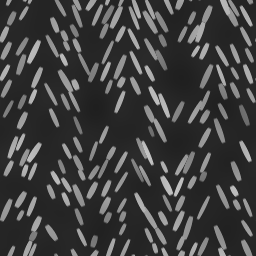
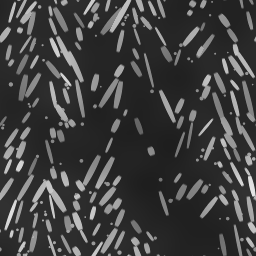
cabin777 py w4: raters A 6.5 / B 7.0 -> final fixes: fabric with soft diagonal drifts, mixed stroke sizes + dots, lavender-grey ground, wings = back tone; square-shouldered shell top + wings pulled in; shallow mesh window with stitched border + full-width tray lip; taller open cubbies (upper 1.5x lo
Shared-file edits: SEATMAT pyFabric/pyWing (src/09_seats.js), synth_py_back in test/make_swatches.py + tex/tex_py_back.png.
Triangles: py2 10592 -> 11802, py4 20228 -> 23226 over the session.

Claude-Session: https://claude.ai/code/session_01BdVL6hZ8sese3DcwdvQ7TK

diff --git a/cabin777/src/09b_py.js b/cabin777/src/09b_py.js
@@ -30,14 +30,14 @@ function pySeat(B, x0, lod, opts = {}) {
   // PY w2: the top is a large-radius arch that ends level with the headrest (0.925 vs 0.91), not a square board 6 cm
   // above it (py_37302 / 37303, san_13, alv_02; raters A + B) [D]
   const ds = [[-0.04, 0.05, 0.525], [0.12, 0.06, 0.525], [0.34, 0.07, 0.525], [0.5, 0.084, 0.525], [0.68, 0.09, 0.525], [0.78, 0.085, 0.522],
-    [0.84, 0.08, 0.515], [0.88, 0.075, 0.50], [0.905, 0.066, 0.47], [0.925, 0.05, 0.41], [0.935, 0.03, 0.32]];   // w3: covers the wings from behind
+    [0.84, 0.08, 0.52], [0.88, 0.075, 0.515], [0.905, 0.068, 0.505], [0.925, 0.055, 0.475], [0.94, 0.035, 0.41], [0.948, 0.015, 0.30]];   // w3/w4: square-shouldered so the wings never show from behind
   loftAt(B, ds.map(([y, d, w]) => SEC(y, w, d, zr(y) - d / 2 + 0.01, y > 0.85 ? d / 2 - 0.002 : 0.026)), BH, SEATMAT.pyShell, lod ? 2 : 3);
   // 6-way headrest with wings
   loftAt(B, [SEC(0.67, 0.42, 0.085, -0.008, 0.036), SEC(0.71, 0.39, 0.092, -0.012, 0.04), SEC(0.85, 0.39, 0.092, -0.012, 0.04), SEC(0.895, 0.37, 0.075, -0.006, 0.032), SEC(0.91, 0.33, 0.05, -0.002, 0.02)], BH, F, lod ? 3 : 4);
   for (const s of [-1, 1]) {
     // soft round pillow bolsters either side of the flap, ~0.10 wide x 0.25 tall with domed ends, bulging ~3.5 cm
     // forward of the flap (py_37301 / 37305)
-    const WX = M4.mul(BH, M4.trs(s * 0.195, 0, -0.045, -s * 18 * DEG));
+    const WX = M4.mul(BH, M4.trs(s * 0.182, 0, -0.045, -s * 14 * DEG));   // w4: pulled in (rater B: poked past the shell)
     loftAt(B, [SEC(0.66, 0.05, 0.05, 0, 0.024), SEC(0.69, 0.085, 0.095, 0, 0.042), SEC(0.72, 0.10, 0.11, 0, 0.05), SEC(0.87, 0.10, 0.11, 0, 0.05),
       SEC(0.90, 0.085, 0.095, 0, 0.042), SEC(0.92, 0.05, 0.05, 0, 0.024)], WX, SEATMAT.pyWing, lod ? 2 : 3);
   }
@@ -71,25 +71,26 @@ function pySeat(B, x0, lod, opts = {}) {
     // literature pocket low on the shell, just above the footrest (alv_05, san_10, san_05): rigid grey upper tray lip
     // standing ~4 cm proud, a flat grey panel below it with a black mesh window, slightly narrower at the bottom
     // (w3: the w2 5 cm hood + deep basket was too bulky, rater B) [D]
-    B.add(gRBox(0.40, 0.03, 0.045, 0.012, 1), on(0.235, 0.022), SEATMAT.pyShell);
+    B.add(gRBox(0.44, 0.045, 0.05, 0.014, 1), on(0.232, 0.024), SEATMAT.pyShell);
     B.add(gRBox(0.36, 0.17, 0.016, 0.012, 1), on(0.135, 0.01), SEATMAT.pyShell);
-    loftAt(B, [SEC(0.07, 0.27, 0.012, 0.018, 0.005), SEC(0.14, 0.30, 0.018, 0.021, 0.006), SEC(0.20, 0.32, 0.018, 0.021, 0.006)],
-      M4.mul(BH, M4.trs(0, 0, zr(0.13))), { c: '#16181b', r: 0.9, l: LAYER.grille }, 2);
+    B.add(gBox(0.30, 0.065, 0.003), on(0.12, 0.019), { c: '#16181b', r: 0.9, l: LAYER.grille });           // w4: shallow mesh window
+    for (const [sx, sy, w_, h_] of [[0, 0.156, 0.32, 0.002], [0, 0.084, 0.32, 0.002], [-0.16, 0.12, 0.002, 0.074], [0.16, 0.12, 0.002, 0.074]])
+      B.add(gBox(w_, h_, 0.002), on(sy, 0.0185, sx), { c: '#9a9ca0', r: 0.6 });                                  // stitched border
     B.add(gBox(0.36, 0.008, 0.006), on(0.216, 0.036), SEATMAT.black);                               // pocket mouth shadow
   }
   if (!opts.noScreen) {
     // coat hook: horizontal silver bullet high on the shell side + small round grey button below it (san_24)
-    B.add(gCyl(0.012, 0.016, 0.07, 10), M4.mul(on(0.80, 0.03, 0.20), M4.trs(0, 0, 0, 0, Math.PI / 2)), { c: '#c9ccd0', r: 0.25, m: 0.9, l: LAYER.brushed });
-    B.add(gCyl(0.009, 0.009, 0.006, 10), M4.mul(on(0.74, 0.012, 0.20), M4.trs(0, 0, 0, 0, Math.PI / 2)), { c: '#c7c9cc', r: 0.4 });
+    B.add(gCyl(0.015, 0.017, 0.05, 10), M4.mul(on(0.80, 0.025, 0.17), M4.trs(0, 0, 0, 0, Math.PI / 2)), { c: '#c9ccd0', r: 0.25, m: 0.9, l: LAYER.brushed });
+    B.add(gCyl(0.009, 0.009, 0.006, 10), M4.mul(on(0.74, 0.012, 0.17), M4.trs(0, 0, 0, 0, Math.PI / 2)), { c: '#c7c9cc', r: 0.4 });
     // gooseneck reading light: leaves the shell side at headrest height, arcs down + forward to a brushed-aluminium
     // head with a black lens at shoulder height; one per seat, on the console side (py_37305 / 37301, san_14)
     const sd = x0 > 0 ? -1 : 1, P = (x, y, z) => M4.point(BH, [sd * x, y, z]);
-    B.add(gCyl(0.016, 0.016, 0.03, 10), M4.mul(BH, M4.trs(sd * 0.265, 0.80, zr(0.80) - 0.02, 0, 0, Math.PI / 2)), SEATMAT.frame);
+    B.add(gCyl(0.016, 0.016, 0.03, 10), M4.mul(BH, M4.trs(sd * 0.25, 0.80, zr(0.80) - 0.02, 0, 0, Math.PI / 2)), SEATMAT.frame);
     B.add(gTube([P(0.262, 0.80, zr(0.80) - 0.02), P(0.262, 0.80, 0.0), P(0.265, 0.74, -0.10), P(0.24, 0.62, -0.16)], 0.0095, 8), null, SEATMAT.black);
-    const hd = M4.mul(BH, M4.trs(sd * 0.238, 0.585, -0.177, 0, 26 * DEG));
+    const hd = M4.mul(BH, M4.trs(sd * 0.238, 0.583, -0.204, 0, 50 * DEG));   // w4: head points forward-down ~45 deg (py_37305)
     B.add(gCyl(0.019, 0.019, 0.11, 12), hd,   // head ~38 x 115 mm (alv_17) [D]
     { c: '#c9ccd0', r: 0.25, m: 0.9, l: LAYER.brushed });
-    B.add(gCyl(0.006, 0.006, 0.002, 10), M4.mul(hd, M4.trs(0, -0.0555, 0)), SEATMAT.black);
+    B.add(gCyl(0.007, 0.007, 0.002, 10), M4.mul(hd, M4.trs(0, -0.025, 0.0192, 0, Math.PI / 2)), SEATMAT.black);   // lens on the side (py_37305)
   }
   // PY w2: ONE fold-down footrest for the passenger behind (alv_05 / alv_06, san_10): two ribbed dark pads (~0.13 m) on a
   // common axle with silver end caps + centre hub, hung from the seat pan on one silver arm just off centre (w3; alv_06) [D]
@@ -140,13 +141,13 @@ function pyUnit(n, lod = false, opts = {}) {
         // front face (alv_08 / alv_09, py_37306): two open moulded cubbies (upper larger) with a royal-blue triangle in
         // the corner, a black panel with two universal AC + USB sockets, then a lower block with the red life-vest tab
         // each cubby: a grey front plate standing ~2.5 cm proud over the lower 3/4, dark opening only above it
-        for (const [y, h] of [[0.50, 0.10], [0.37, 0.08]]) {
-          B.add(gBox(w - 0.03, 0.02, 0.004), M4.trs(xa, y + h / 2 - 0.012, -0.543), SEATMAT.hole);
-          B.add(gRBox(w - 0.012, h * 0.74, 0.028, 0.007, 1), M4.trs(xa, y - h * 0.13, -0.554), SEATMAT.pyArm);
+        for (const [y, h] of [[0.50, 0.12], [0.36, 0.075]]) {     // w4: upper ~1.5x the lower (alv_09)
+          B.add(gBox(w - 0.026, 0.016, 0.004), M4.trs(xa, y + h / 2 - 0.012, -0.543), { c: '#2a2c30', r: 0.8 });
+          B.add(gRBox(w - 0.02, h * 0.74, 0.028, 0.007, 1), M4.trs(xa, y - h * 0.13, -0.554), SEATMAT.pyArm);
           // royal-blue right-angled triangle: top-left corner on the upper cubby, top-right on the lower (alv_09) [V]
           const up = y > 0.45;
-          const L = 0.028, sx = up ? 1 : -1;   // legs along the plate's top edge and outer side (top-left / top-right seen from the front)
-          B.add(gExtrude([[0, 0], [-sx * L, 0], [0, -L]], 0.002), M4.trs(xa + sx * (w / 2 - 0.009), y + h * 0.24 - 0.008, -0.5695), { c: '#2f47a8', r: 0.6 });
+          const L = 0.026, sx = up ? 1 : -1;   // legs along the plate's top edge and outer side (top-left / top-right seen from the front)
+          B.add(gExtrude([[0, 0], [-sx * L, 0], [0, -L]], 0.002), M4.trs(xa + sx * (w / 2 - 0.013), y + h * 0.24 - 0.008, -0.5695), { c: '#2f47a8', r: 0.6 });
         }
         for (const s of [-1, 1]) {
           B.add(gRBox(0.037, 0.045, 0.004, 0.003, 1), M4.trs(xa + s * 0.021, 0.245, -0.542), SEATMAT.port);
@@ -175,8 +176,7 @@ function pyUnit(n, lod = false, opts = {}) {
       // PY w2: floor-standing silver bin, two square ~7 cm cups at the top (~0.44), white placard (alv_07, san_07) [D]
       B.add(gRBox(0.145, 0.44, 0.08, 0.012, 1), M4.trs(xa, 0.22, 0.045), SEATMAT.pyBin);
       for (const s of [-1, 1]) {        // recessed brushed cups with thin walls, grey floor (alv_07)
-        B.add(gRBox(0.056, 0.004, 0.058, 0.01, 1), M4.trs(xa + s * 0.033, 0.4405, 0.045), { c: '#8a8e92', r: 0.45, m: 0.6 });
-        B.add(gBox(0.05, 0.003, 0.052), M4.trs(xa + s * 0.033, 0.4425, 0.045), { c: '#3a3d40', r: 0.7 });
+        B.add(gRBox(0.056, 0.004, 0.058, 0.01, 1), M4.trs(xa + s * 0.033, 0.4405, 0.045), { c: '#6e7276', r: 0.45, m: 0.6 });   // shadowed cup floor
       }
       B.add(gQuad(0.08, 0.03), M4.trs(xa, 0.36, 0.0855), { c: '#e6e6e2', r: 0.6 });
     }
@@ -185,7 +185,7 @@ function pyUnit(n, lod = false, opts = {}) {
   const legX = n >= 3 ? [-(W / 2 - 0.28), W / 2 - 0.28] : [-0.28, 0.28];
   for (const lx of legX) {
     // w3: pale champagne leg frames with a diagonal rear strut, seen from the row behind (san_05, alv_03; rater A) [A]
-    const leg = { c: '#bdb298', r: 0.35, m: 0.7, l: LAYER.brushed };
+    const leg = { c: '#bab7ae', r: 0.35, m: 0.75, l: LAYER.brushed };   // w4: light warm aluminium (A: champagne, B: cool alu)
     B.add(gRBox(0.035, 0.44, 0.045, 0.01, 1), M4.trs(lx, 0.19, 0.0, 0, 35 * DEG), leg);
     B.add(gRBox(0.04, 0.34, 0.05, 0.01, 1), M4.trs(lx, 0.16, -0.40, 0, -20 * DEG), leg);
     B.add(gBox(0.055, 0.025, 0.14), M4.trs(lx, 0.012, -0.08), SEATMAT.black);

diff --git a/cabin777/src/09_seats.js b/cabin777/src/09_seats.js
@@ -54,10 +54,11 @@ const SEATMAT = {
   // PY w1: real cabins (ref/web/py san_03 / san_04: fabric / wall 107 / 189 = 0.57; ANA py_37301 / 37303 0.8) -> lighter
   // than the r3 render (0.45); wing = back tone (py_37301 B/R 1.26 vs 1.24), flap / back 0.56-0.65 (san_04, py_37302),
   // shells / wall 0.38-0.42 (san_03 71-82 / 189, py_37303) [D]
-  // w3: back + wing warm greige (real cabins san_04 back R/B 1.27 vs wall 1.10; alv_02 / alv_04 cream strokes) [D]
-  pyFabric: { c: photoBase('#9a9692', 'py_back'), r: 0.9, l: LAYER.pyFleck },
+  // w3: back + wing greige (san_04 back R/B 1.27 vs wall 1.10); w4: cool lavender-grey ground (rater A B/R 1.07 vs wall,
+  // B (118,122,132)) - cream strokes come from the tile; wings = back tone (w4 render 94 vs 112) [D]
+  pyFabric: { c: photoBase('#94929c', 'py_back'), r: 0.9, l: LAYER.pyFleck },
   pyCover: { c: '#4b5168', r: 0.45, l: LAYER.leather },   // w2: flap / back 0.31-0.37 -> ~0.5; w3 B/R 1.4 (alv_17 slate-navy, ANA blue cast)   // photo flap #232740, R/B 0.55 (py_37305): less saturated
-  pyWing: { c: photoBase('#a09c98', 'py_confetti'), r: 0.9, l: LAYER.pyConfetti },
+  pyWing: { c: photoBase('#aaa8b2', 'py_confetti'), r: 0.9, l: LAYER.pyConfetti },
   pyShell: { c: '#7e8084', r: 0.42, l: LAYER.plastic },   // w2: rear shell / wall 0.28-0.34 rendered vs 0.4-0.6 in photos
   pyArm: { c: '#5c5e62', r: 0.45, l: LAYER.plastic },
   pyArmPad: { c: '#4a4c50', r: 0.5, l: LAYER.leather },   // dark stitched leatherette lids (san_06, alv_04)

diff --git a/cabin777/test/make_swatches.py b/cabin777/test/make_swatches.py
@@ -78,23 +78,30 @@ def synth_py_back(ratio, seed=7):
     rng = np.random.default_rng(seed)
     mot = _blur_wrap(ratio.mean(2), 12)
     mot = (mot - mot.mean()) / (mot.std() + 1e-6)
+    # w4: soft diagonal light / dark drifts about half a tile across (raters A + B: 'leaf wallpaper' without them)
+    drift = _blur_wrap(rng.normal(0, 1, (S, S)), 22); drift = (drift - drift.mean()) / drift.std()
+    drift = 0.6 * drift + 0.4 * np.roll(np.roll(drift, 40, 0), 40, 1)
     y = np.arange(S)[:, None]; x = np.arange(S)[None, :]
     lite = np.zeros((S, S))
     cols = 6; cw = S / cols                        # 0.163 m / 6 = 27 mm columns (tileable)
     for c, lane in [(c, l) for c in range(cols) for l in (-0.3, 0.0, 0.3)]:        # three staggered lanes per column
-        ang = np.radians(25 if c % 2 else -25) + rng.normal(0, 0.06, 400)
+        ang = np.radians(25 if c % 2 else -25) + rng.uniform(-0.26, 0.26, 400)   # +-15 deg jitter
         vy = rng.uniform(0, 12); k = 0
         while vy < S:
-            ln = rng.uniform(12, 28); th = rng.uniform(2.4, 3.6)
+            ln = rng.uniform(12, 28) * rng.uniform(0.4, 1.6); th = rng.uniform(1.8, 3.8)
             cx = (c + 0.5 + lane) * cw + rng.normal(0, cw * 0.06); cy = vy + ln / 2
-            m = mot[int(cy) % S, int(cx) % S]
+            m = 0.5 * mot[int(cy) % S, int(cx) % S] + 1.2 * drift[int(cy) % S, int(cx) % S]
             if rng.random() < np.clip(0.72 + 0.25 * m, 0.3, 1.0):
                 dx = (x - cx + S / 2) % S - S / 2; dy = (y - cy + S / 2) % S - S / 2
                 a = ang[k]; along = dx * np.sin(a) + dy * np.cos(a); across = dx * np.cos(a) - dy * np.sin(a)
                 v = np.clip((ln / 2 - np.abs(along)) / 2.0, 0, 1) * np.clip((th * (1 - 0.35 * (2 * along / ln) ** 2) - np.abs(across)) / 0.9, 0, 1)
                 lite = np.maximum(lite, v * np.clip(rng.normal(1.0, 0.15), 0.6, 1.25))
             vy += ln * rng.uniform(0.75, 1.1); k += 1
-    out = (1 + 3.0 * lite) * np.exp(0.05 * mot)
+    for cy, cx in rng.uniform(0, S, (140, 2)):    # small cream dots between the strokes, mostly in the light drifts
+        if drift[int(cy), int(cx)] < -0.3 and rng.random() < 0.7: continue
+        rr = np.hypot((x - cx + S / 2) % S - S / 2, (y - cy + S / 2) % S - S / 2)
+        lite = np.maximum(lite, np.clip((rng.uniform(1.2, 2.6) - rr) / 0.9, 0, 1) * 0.9)
+    out = (1 + 3.0 * lite) * np.exp(0.12 * drift + 0.04 * mot)
     return np.repeat(out[:, :, None], 3, 2)
 
 

diff --git a/cabin777/review/qa/py_report.md b/cabin777/review/qa/py_report.md
@@ -1,0 +1,91 @@
+# PY (Premium Economy, ZIM) - area report
+
+Owned file: `src/09b_py.js`. Shared edits, one line per key:
+- `SEATMAT` py* in `src/09_seats.js`
+- `PHOTO_GAIN` 17 in `src/03_tex.js`
+- the py entries (the synthesis functions) in `test/make_swatches.py`, with `tex/tex_py_back.png` and `tex/tex_py_confetti.png`
+
+## Scores (0-10)
+
+| round | rater A (skeptic) | rater B (geometry first) | commit |
+|---|---|---|---|
+| r3 (start) | 5.8 (single rater) | - | - |
+| w2 (after w1 fixes) | 5.0 | 5.6 | e7bb7d7 |
+| w3 | 6.0 | 6.6 | 0ba3e28 |
+| w4 | 6.5 | 7.0 | 39de8f0 |
+| final fixes after w4 (not re-rated; round limit) | - | - | this commit |
+
+Both raters' w4 JSONs list no geometry high issue. Rater A kept one high issue on the fabric (too regular, and warmed
+too far), and the final pass addresses it (see below). The target of 8.5 was **not reached**. The four-round limit in
+the brief ended the loop while scores were still rising by about 0.5 per round.
+
+## What changed
+
+- **Fabric.** The r3 tile was a 140 px photo crop upsampled to 256 px, and it rendered as soft blobs. It is now drawn
+  crisply in `make_swatches.py` (`synth_py_back`), keeping only the photo's mottling:
+  - The real cabin photos (SANspotter 2023, The Alviator 2026) show short cream strokes in herringbone columns
+    (alv_02, alv_17) on a lavender-grey ground.
+  - They also show soft light and dark drifts, mixed stroke sizes and small dots.
+  - The wings use elongated cream flecks.
+  - Fabric, wing and flap colours are balanced against the wall in the real photos: fabric/wall 0.57-0.73,
+    flap/back about 0.5, wing about equal to the back.
+- **Shell.** The top is now a rounded arch at headrest height, square-shouldered so the wings never show from behind.
+  The shells are lighter (#7e8084). The screen housing stands about 2.5 cm proud.
+- **Literature pocket.** It sits low, just above the footrest: a full-width tray lip, a flat panel, and a shallow mesh
+  window with a stitched border (alv_05, san_10).
+- **Console:**
+  - The face is 0.12 m wide and the cushion 0.43 m (this is a compromise, see question 1).
+  - Two open cubbies; the upper is about 1.5 times the lower.
+  - Right-angled royal-blue corner triangles.
+  - Two universal AC/USB sockets, a lower block, and the red life-vest tab with its blue buckle (alv_08/09, py_37306).
+  - A dark stitched leatherette lid with a light-grey two-cup tray at the nose (alv_18).
+  - Seat-letter plaques and buttons on the nose sides.
+- **Rear of the seat:**
+  - One fold-down footrest: two ribbed pads on an axle, a centre hub and one arm (alv_05/06).
+  - A floor-standing silver bottle bin with two recessed cups and a placard (alv_07).
+  - Light aluminium diagonal leg struts.
+- **Leg rest.** A dark hinge roller and side links (py_37301).
+- **Details:**
+  - The gooseneck is thicker, with a 38x115 mm head angled forward and the lens on its side (py_37305, alv_17).
+  - The silver coat hook sits inboard.
+  - Hem stitch on the flap.
+  - Slate shroud caps.
+  - The black crease line on the backs is removed.
+- **Layout agreement.** `PY.sp` = 0.5525, equal to `05_layout` pySp. The r3 geometry was 2-3 cm off the seat ids and
+  eye points.
+- **Triangles** (hi-LOD): py2 went from 10592 to 11802 and py4 from 20228 to 23226 (about +15 %). The mid-LOD went from
+  5712 to 6028. The far LOD is unchanged at 928.
+
+## Sources
+
+- The ANA official py_37301-06 photos in `ref/ana`.
+- 37 real trip-report photos in `ref/web/py`, gitignored, listed in `INDEX.md`:
+  - SANspotter NH108 2023 (JA793A, seat 26G): https://www.sanspotter.com/ana-777-300er-premium-economy/
+  - The Alviator NH211 2026: https://thealviator.com/2026/09/ana-777-premium-economy-review/
+- Each value in the code carries a `[V]`/`[D]`/`[A]` tag and its photo reference.
+
+## Where the raters were not followed, and why
+
+- **Console width.** Both raters measured the console at 0.13-0.15 m. At the layout's 0.5525 m seat spacing that leaves
+  a cushion under 0.42 m, so the model uses 0.12 m (question 1).
+- **Leg colour.** Rater A saw champagne legs; rater B wanted cool aluminium. The model uses a light warm aluminium
+  (#bab7ae).
+- **Flap colour.** Rater A wanted it greyer and rater B bluer. The model takes the middle, B/R about 1.4.
+- **Not done:**
+  - Placard text: it needs an atlas entry in `06_atlas.js`, which this area does not own.
+  - Flap drape.
+  - A larger (0.33 m) fabric tile: page size, question 2.
+
+## Items for other areas
+
+These are in `from_py.md`:
+- The q13_pyFront camera sits inside the partition. The replacement camera is given.
+- A PY seat-back QA view.
+- A bulkhead monitor check for the monuments area.
+
+## Open questions
+
+These are in `questions_py.md`:
+1. The real seat or console width, or the seat spacing from an aeroLOPA drawing.
+2. Which fabric generation to follow, or whether to use a larger repeat.
+3. Confirm the bulkhead monitors for row 25.

diff --git a/cabin777/review/qa/fixed_py.md b/cabin777/review/qa/fixed_py.md
@@ -1,0 +1,7 @@
+# PY fixes (items from other areas' from_*.md files)
+
+No `from_*.md` file addressed an item to the PY area during this session. Everything below comes from the PY raters
+(py_r3, py_w2a/b, py_w3a/b, py_w4a/b); the round-by-round list is in `py_report.md`.
+
+- py_r3: every high and medium issue except q13 fixed (e7bb7d7). q13 (the camera is inside the partition) belongs to
+  the integration area: see from_py.md.
